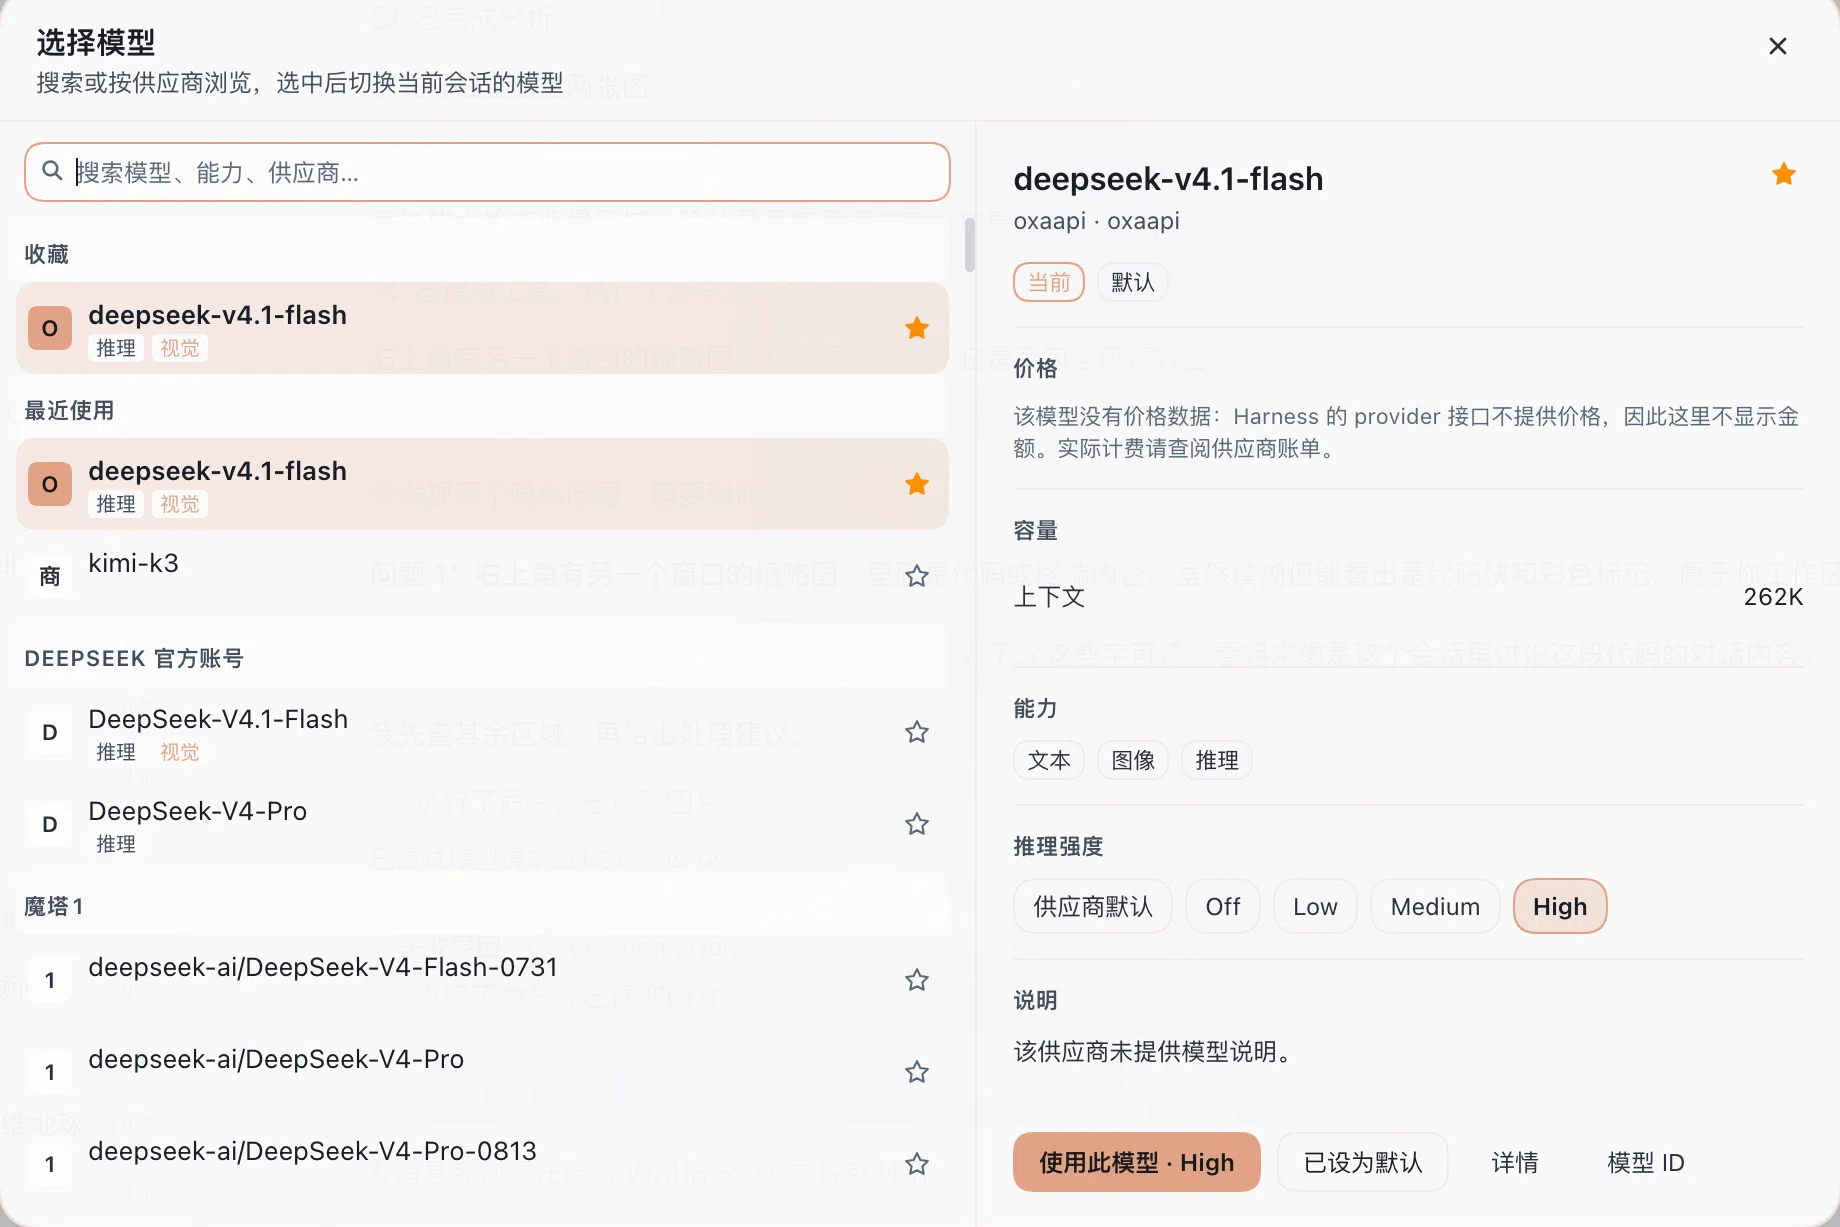
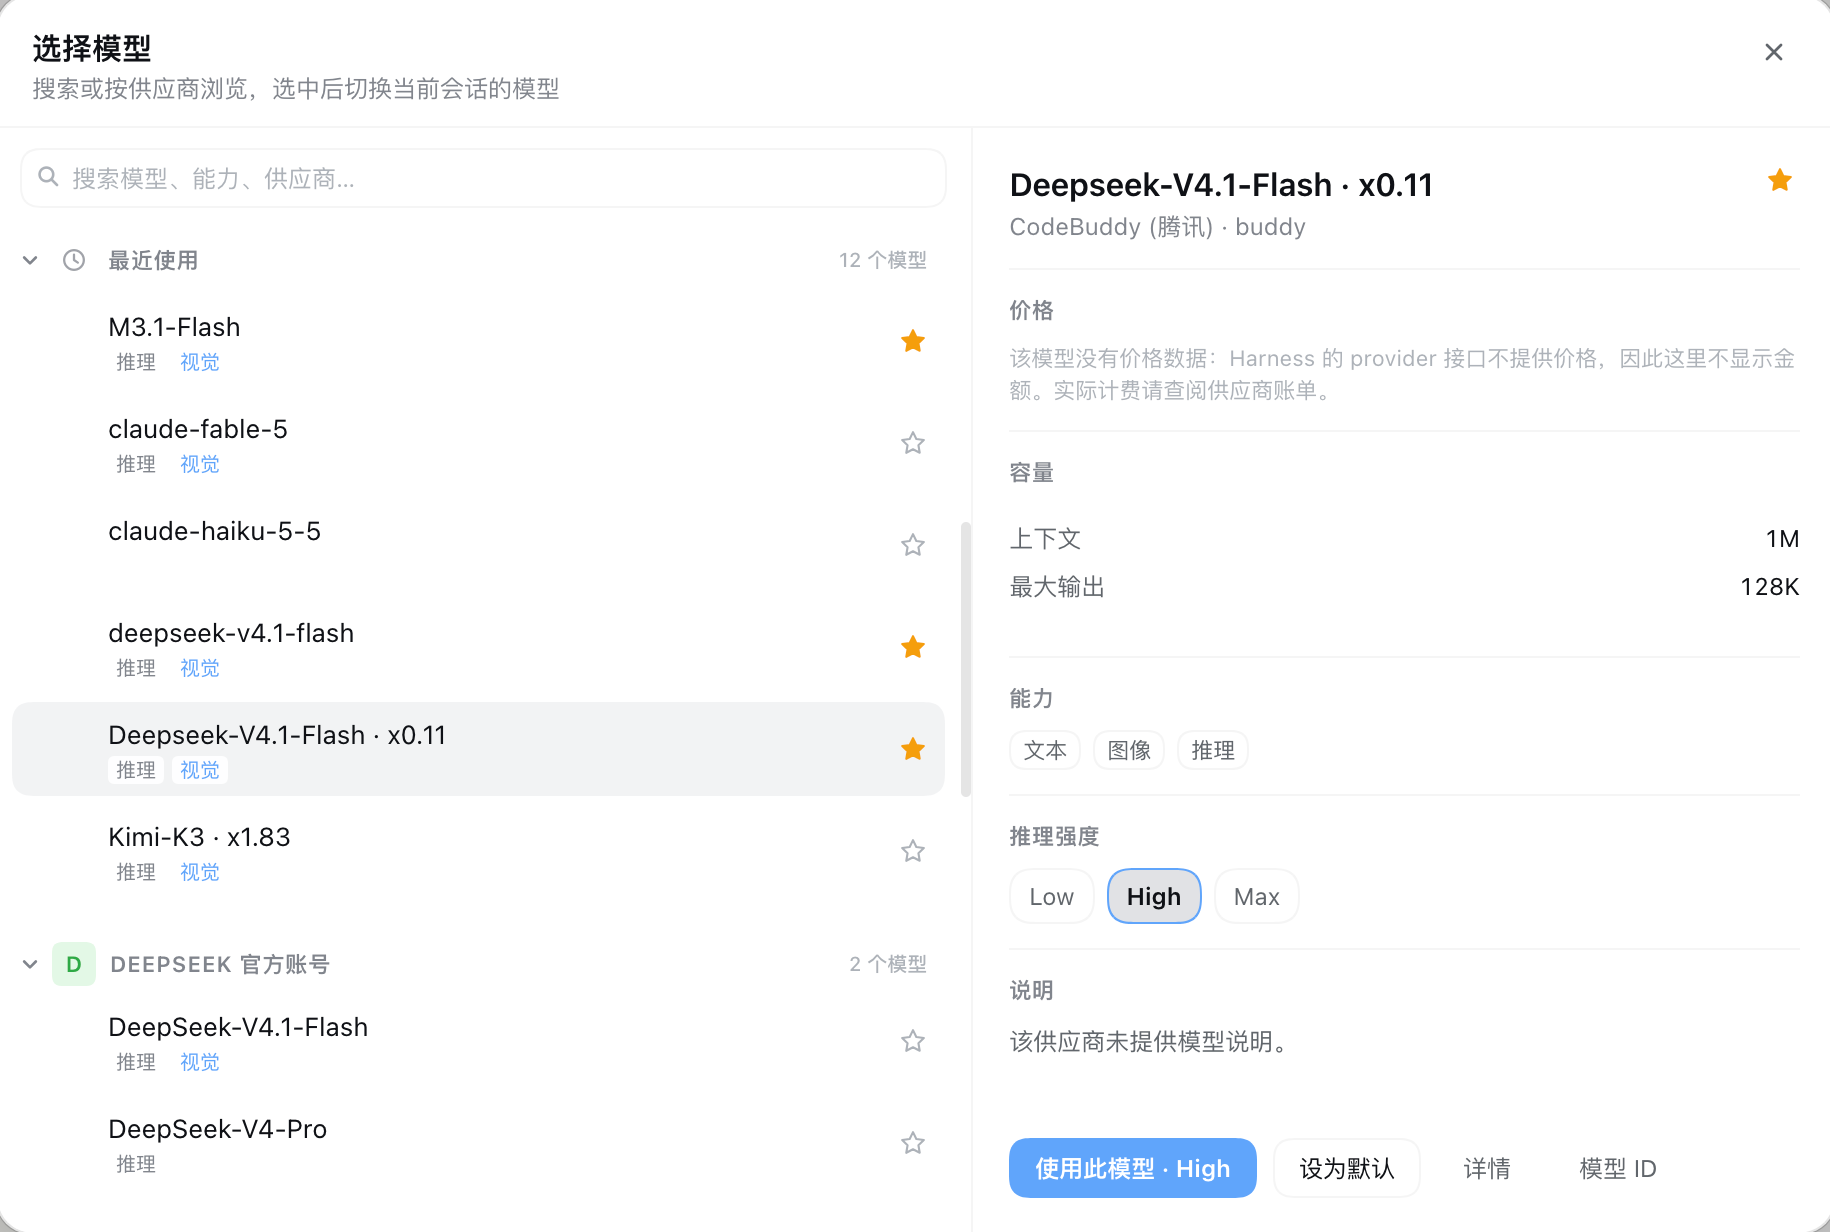
style: one mark shape for every provider
Marks alternated between a circle and a rounded square, chosen by the provider
id's parity. At 22px that did not read as a distinction, it read as inconsistent
size: a circle covers ~18% less area than a rounded square of the same box, so
circular marks looked smaller than square ones in the same column.

Every mark is now a rounded square whose radius scales with the box, and hue
alone separates providers.

CJK initials drop a step in font-size: a Chinese glyph fills its em box while a
Latin capital only fills its cap height, so matching sizes made "商" look larger
than "S".

diff --git a/client.js b/client.js
@@ -579,13 +579,24 @@ window.__ModuleLoader__.load({
 
     /**
      * Provider mark: a rounded tile carrying the initial, tinted by a hue derived
-     * from the provider id. Shape alternates between rounded-square and circle so
-     * neighbouring groups separate even when their hues land close together.
+     * from the provider id.
+     *
+     * The shape used to alternate between a circle and a rounded square so that
+     * neighbouring hues could not be confused. At 22px that read as inconsistent
+     * size rather than as a distinction: a circle covers ~18% less area than a
+     * rounded square of the same box, so circles looked smaller than squares in
+     * the same column. One shape for every provider; hue alone separates them.
      *
      * @param {{id: string, name: string, size?: number, className?: string}} props
      */
     const ProviderMark = ({ id, name, size = 18, className }) => {
       const { fill, ink } = markColors(id)
+      const glyph = letterOf(name)
+      // A CJK glyph fills its em box while a Latin capital only fills its cap
+      // height, so the same font-size makes "商" look larger than "S". Drop the
+      // CJK case a step so every mark reads at one weight.
+      const wide = /[\u3400-\u9FFF\uF900-\uFAFF]/u.test(glyph)
+      const ratio = wide ? (size >= 22 ? 0.44 : 0.5) : (size >= 22 ? 0.5 : 0.58)
       return h('span', {
         className: ['mp-mark', className].filter(Boolean).join(' '),
         style: {
@@ -593,11 +604,12 @@ window.__ModuleLoader__.load({
           height: `${size}px`,
           background: fill,
           color: ink,
-          fontSize: `${Math.round(size * (size >= 22 ? 0.5 : 0.58))}px`,
-          borderRadius: hueOf(id) % 2 === 0 ? '50%' : '5px',
+          fontSize: `${Math.round(size * ratio)}px`,
+          // Radius scales with the box so every mark is the same shape at any size.
+          borderRadius: `${Math.round(size * 0.27)}px`,
         },
         'aria-hidden': true,
-      }, letterOf(name))
+      }, glyph)
     }
 
     const matches = (haystack, needle) => {
